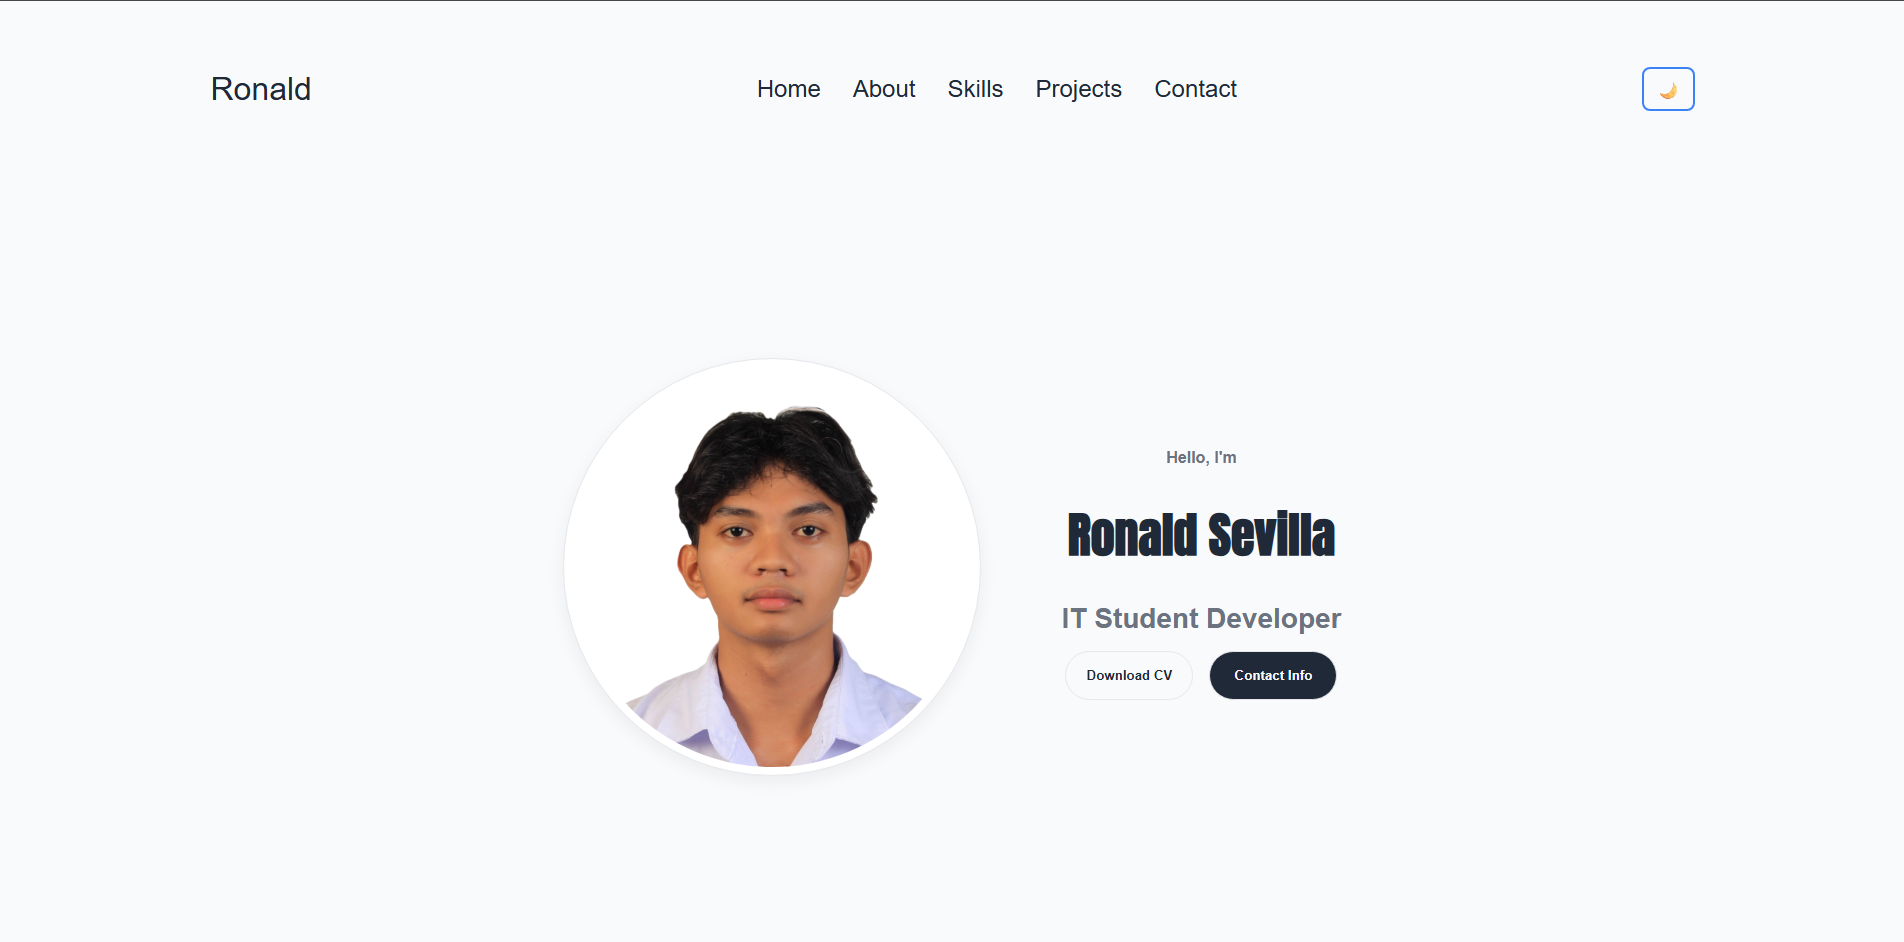
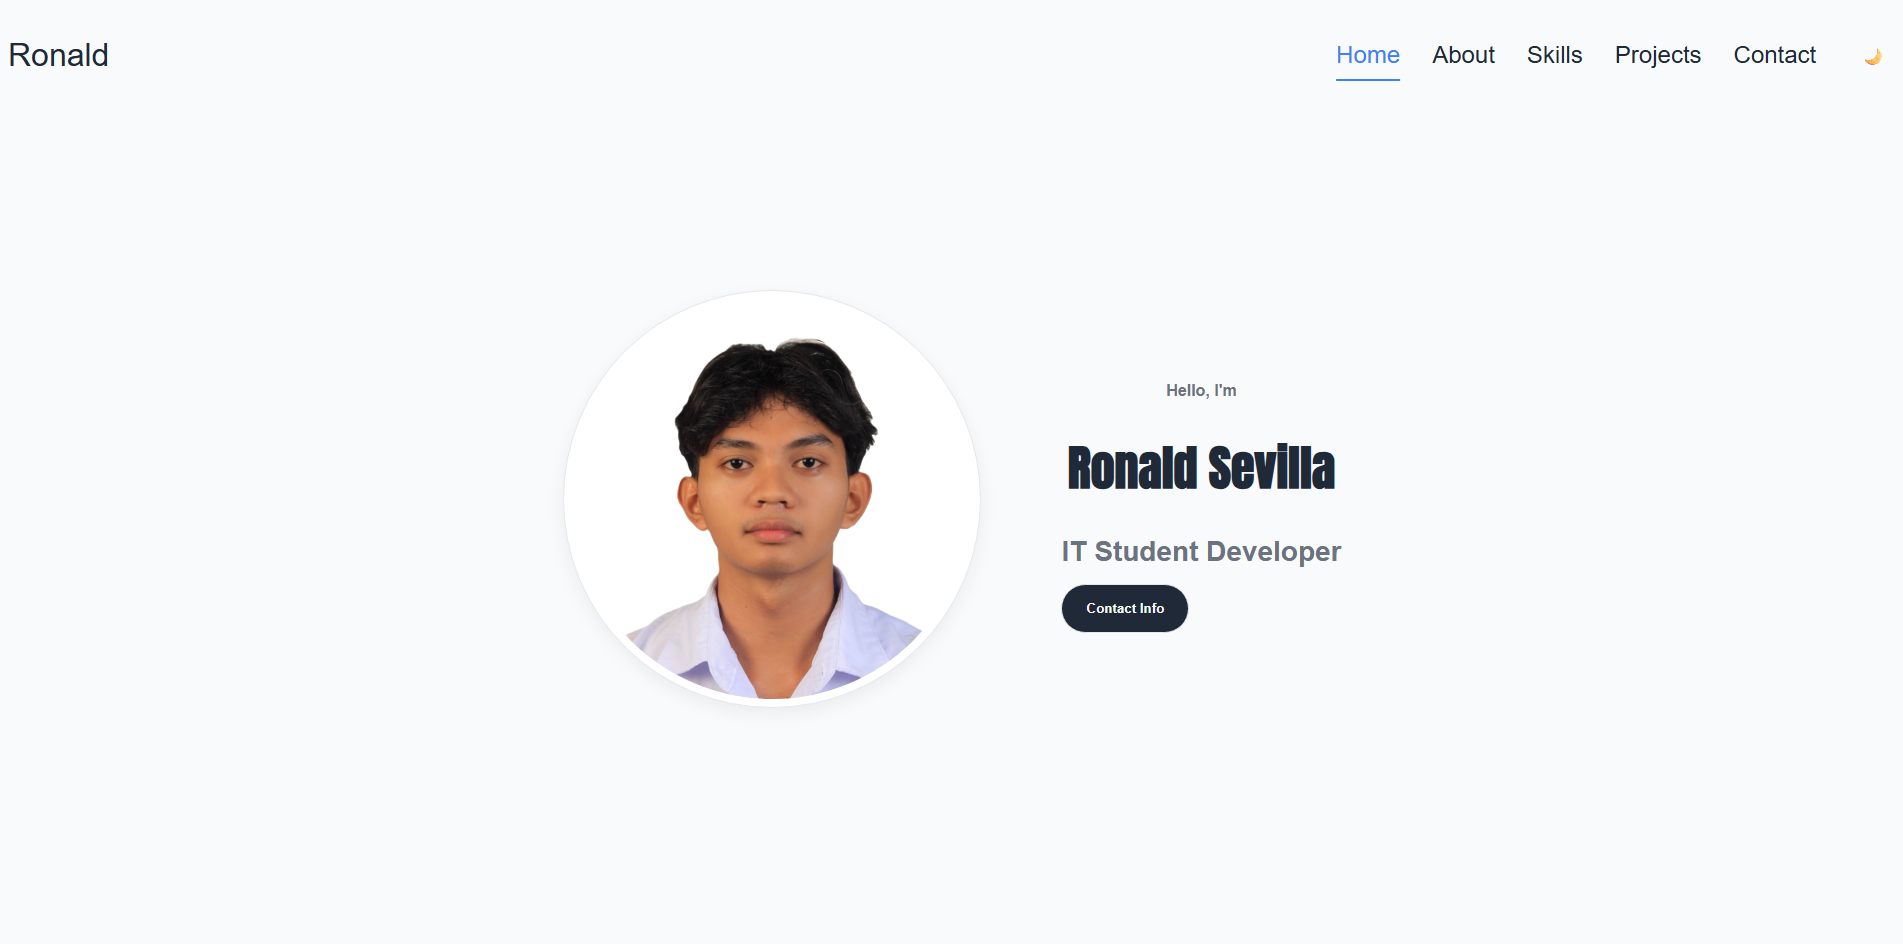
Added changes

diff --git a/Contact.html b/Contact.html
@@ -14,7 +14,7 @@
 <body>
   <nav id="desktop-nav">
     <div class="logo">Ronald</div>
-    <div>
+    <div style="display: flex; align-items: center; gap: 2rem;">
       <ul class="nav-links">
         <li><a href="index.html">Home</a></li>
         <li><a href="About.html">About</a></li>
@@ -22,10 +22,10 @@
         <li><a href="Project.html">Projects</a></li>
         <li><a href="Contact.html">Contact</a></li>
       </ul>
+      <button id="themeToggle" class="theme-toggle" aria-label="Toggle Light/Dark Mode">
+        <span class="toggle-icon">🌙</span>
+      </button>
     </div>
-    <button id="themeToggle" class="theme-toggle" aria-label="Toggle Light/Dark Mode">
-      <span class="toggle-icon">🌙</span>
-    </button>
 
   </nav>
   <nav id="hamburger-nav">
@@ -56,12 +56,6 @@
     <div class="contact-container">
       <!-- Contact Information - Left Side -->
       <div class="contact-info-section">
-        <div class="contact-intro">
-          <p>
-            If you have questions about my projects or want to collaborate, feel free to reach out.
-            I'm open to internships, project-based work, and opportunities to grow in the IT field.
-          </p>
-        </div>
         <div class="contact-details">
           <div class="contact-item">
             <i class="fas fa-envelope"></i>

diff --git a/index.html b/index.html
@@ -14,7 +14,7 @@
 <body>
   <nav id="desktop-nav">
     <div class="logo">Ronald</div>
-    <div>
+    <div style="display: flex; align-items: center; gap: 2rem;">
       <ul class="nav-links">
         <li><a href="index.html">Home</a></li>
         <li><a href="About.html">About</a></li>
@@ -22,10 +22,10 @@
         <li><a href="Project.html">Projects</a></li>
         <li><a href="Contact.html">Contact</a></li>
       </ul>
+      <button id="themeToggle" class="theme-toggle" aria-label="Toggle Light/Dark Mode">
+        <span class="toggle-icon">🌙</span>
+      </button>
     </div>
-    <button id="themeToggle" class="theme-toggle" aria-label="Toggle Light/Dark Mode">
-      <span class="toggle-icon">🌙</span>
-    </button>
 
   </nav>
   <nav id="hamburger-nav">
@@ -59,10 +59,7 @@
       <h1 class="title">Ronald Sevilla</h1>
       <p class="section__text__p2"> IT Student Developer</p>
       <div class="btn-container">
-        <button class="btn btn-color-2" onclick="window.open('./assets/Resume.pdf')">
-          Download CV
-        </button>
-        <button class="btn btn-color-1" onclick="location.href='Contact.html'">
+        <button class="btn btn-color-1" onclick="location.href=' Contact.html'">
           Contact Info
         </button>
       </div>

diff --git a/About.html b/About.html
@@ -14,7 +14,7 @@
 <body>
   <nav id="desktop-nav">
     <div class="logo">Ronald</div>
-    <div>
+    <div style="display: flex; align-items: center; gap: 2rem;">
       <ul class="nav-links">
         <li><a href="index.html">Home</a></li>
         <li><a href="About.html">About</a></li>
@@ -22,10 +22,10 @@
         <li><a href="Project.html">Projects</a></li>
         <li><a href="Contact.html">Contact</a></li>
       </ul>
+      <button id="themeToggle" class="theme-toggle" aria-label="Toggle Light/Dark Mode">
+        <span class="toggle-icon">🌙</span>
+      </button>
     </div>
-    <button id="themeToggle" class="theme-toggle" aria-label="Toggle Light/Dark Mode">
-      <span class="toggle-icon">🌙</span>
-    </button>
 
   </nav>
   <nav id="hamburger-nav">

diff --git a/Project.html b/Project.html
@@ -14,7 +14,7 @@
 <body>
   <nav id="desktop-nav">
     <div class="logo">Ronald</div>
-    <div>
+    <div style="display: flex; align-items: center; gap: 2rem;">
       <ul class="nav-links">
         <li><a href="index.html">Home</a></li>
         <li><a href="About.html">About</a></li>
@@ -22,10 +22,10 @@
         <li><a href="Project.html">Projects</a></li>
         <li><a href="Contact.html">Contact</a></li>
       </ul>
+      <button id="themeToggle" class="theme-toggle" aria-label="Toggle Light/Dark Mode">
+        <span class="toggle-icon">🌙</span>
+      </button>
     </div>
-    <button id="themeToggle" class="theme-toggle" aria-label="Toggle Light/Dark Mode">
-      <span class="toggle-icon">🌙</span>
-    </button>
 
   </nav>
   <nav id="hamburger-nav">

diff --git a/Skills.html b/Skills.html
@@ -14,7 +14,7 @@
 <body>
   <nav id="desktop-nav">
     <div class="logo">Ronald</div>
-    <div>
+    <div style="display: flex; align-items: center; gap: 2rem;">
       <ul class="nav-links">
         <li><a href="index.html">Home</a></li>
         <li><a href="About.html">About</a></li>
@@ -22,10 +22,10 @@
         <li><a href="Project.html">Projects</a></li>
         <li><a href="Contact.html">Contact</a></li>
       </ul>
+      <button id="themeToggle" class="theme-toggle" aria-label="Toggle Light/Dark Mode">
+        <span class="toggle-icon">🌙</span>
+      </button>
     </div>
-    <button id="themeToggle" class="theme-toggle" aria-label="Toggle Light/Dark Mode">
-      <span class="toggle-icon">🌙</span>
-    </button>
 
   </nav>
   <nav id="hamburger-nav">

diff --git a/Contact.css b/Contact.css
@@ -99,9 +99,9 @@ nav,
 }
 
 nav {
-  justify-content: space-around;
+  justify-content: space-between;
   align-items: center;
-  height: 17vh;
+  height: 10vh;
 }
 
 /* Sticky nav positioning */
@@ -187,7 +187,7 @@ a:hover {
 /* THEME TOGGLE BUTTON */
 .theme-toggle {
   background: none;
-  border: 2px solid var(--accent);
+  border: none;
   color: var(--text);
   padding: 8px 12px;
   border-radius: 8px;
@@ -599,10 +599,13 @@ section {
   color: var(--muted-text);
   font-size: 1rem;
   margin: 0;
-  text-decoration: underline;
   transition: color 0.3s ease;
   word-wrap: break-word;
   overflow-wrap: break-word;
+}
+
+.contact-text a {
+  text-decoration: underline;
 }
 
 .contact-text a:hover {

diff --git a/style.css b/style.css
@@ -99,9 +99,9 @@ nav,
 }
 
 nav {
-  justify-content: space-around;
+  justify-content: space-between;
   align-items: center;
-  height: 17vh;
+  height: 10vh;
 }
 
 /* Sticky nav positioning */
@@ -190,7 +190,7 @@ a:hover {
 /* THEME TOGGLE BUTTON */
 .theme-toggle {
   background: none;
-  border: 2px solid var(--accent);
+  border: none;
   color: var(--text);
   padding: 8px 12px;
   border-radius: 8px;
@@ -411,7 +411,7 @@ section {
 
 .btn-container {
   display: flex;
-  justify-content: center;
+  justify-content: flex-start;
   gap: 1rem;
 }
 

diff --git a/About.css b/About.css
@@ -99,9 +99,9 @@ nav,
 }
 
 nav {
-  justify-content: space-around;
+  justify-content: space-between;
   align-items: center;
-  height: 17vh;
+  height: 10vh;
 }
 
 /* Sticky nav positioning */
@@ -190,7 +190,7 @@ a:hover {
 /* THEME TOGGLE BUTTON */
 .theme-toggle {
   background: none;
-  border: 2px solid var(--accent);
+  border: none;
   color: var(--text);
   padding: 8px 12px;
   border-radius: 8px;

diff --git a/Project.css b/Project.css
@@ -99,9 +99,9 @@ nav,
 }
 
 nav {
-  justify-content: space-around;
+  justify-content: space-between;
   align-items: center;
-  height: 17vh;
+  height: 10vh;
 }
 
 /* Sticky nav positioning */
@@ -190,7 +190,7 @@ a:hover {
 /* THEME TOGGLE BUTTON */
 .theme-toggle {
   background: none;
-  border: 2px solid var(--accent);
+  border: none;
   color: var(--text);
   padding: 8px 12px;
   border-radius: 8px;

diff --git a/Skills.css b/Skills.css
@@ -99,9 +99,9 @@ nav,
 }
 
 nav {
-  justify-content: space-around;
+  justify-content: space-between;
   align-items: center;
-  height: 17vh;
+  height: 10vh;
 }
 
 /* Sticky nav positioning */
@@ -190,7 +190,7 @@ a:hover {
 /* THEME TOGGLE BUTTON */
 .theme-toggle {
   background: none;
-  border: 2px solid var(--accent);
+  border: none;
   color: var(--text);
   padding: 8px 12px;
   border-radius: 8px;

diff --git a/mediaquaries.css b/mediaquaries.css
@@ -124,6 +124,10 @@
     flex-wrap: wrap;
   }
 
+  .btn-container {
+    justify-content: center;
+  }
+
   .contact-info-container {
     margin: 0;
   }
